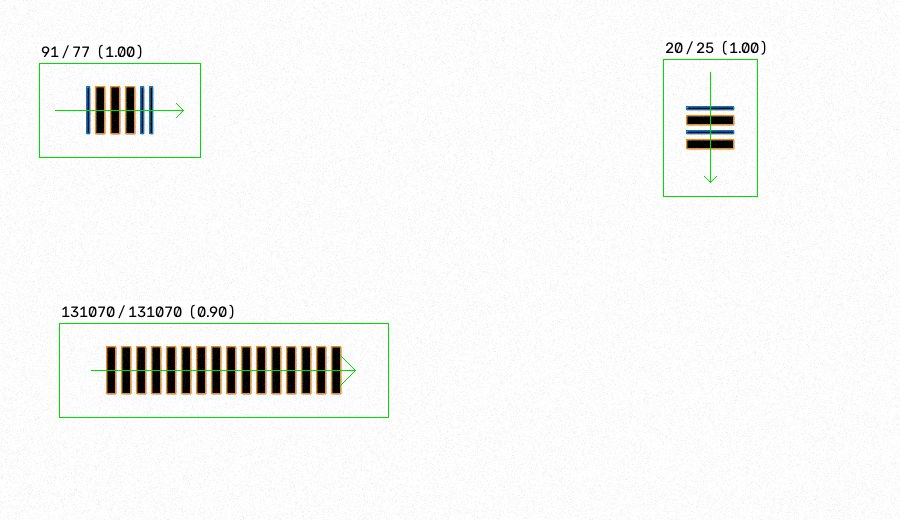
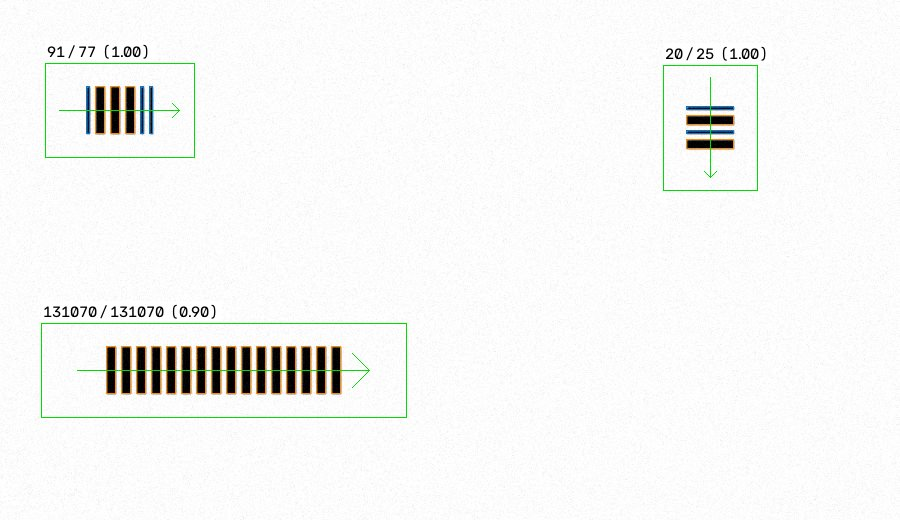
fix: harden output handling, candidate window and packaging
Release review: sdist now includes only the public tree; unknown output suffixes and unwritable JSON paths return exit code 3; the candidate window is derived from bar widths so two codes at the 12 mm minimum separation stay separate; --min-bars is validated; warning strings are documented.

diff --git a/src/pharmacode/detection.py b/src/pharmacode/detection.py
@@ -136,10 +136,26 @@ def candidate_from_chain(
         for i in range(len(ordered) - 1)
     ]
     length = float(np.median([bar.length for bar in chain]))
-    extend_axis = max(config.max_spacing_length_ratio * length, 4.0 * max(spacings))
+    # The window must be wide enough to hold whatever validate_quiet_zone will demand once
+    # segmentation runs: 4x the wide bar width when one is known (quiet_zone_nominal_wide_ratio),
+    # estimated as either the thickest bar in the chain, or 3x the thinnest for an all-narrow
+    # code where no bar reaches the true wide width yet. It also has to clear the largest gap
+    # already seen between bars with room to spare (4.5x: benchmarked against 200 synthetic
+    # negatives, where a run with an oversized end gap needs the window to reach slightly past
+    # it so the neighbouring, disqualifying ink stays inside the candidate instead of being
+    # cropped away). But it must stay below the ~12 mm minimum separation Laetus leaves between
+    # two codes, or the window swallows a neighbouring code's bars as a false quiet zone; with a
+    # known DPI it is capped at 11 mm to leave that code's own 1 mm margin. Without DPI it falls
+    # back to the same formula in millimetre-free bar-width terms.
+    thicknesses = [bar.thickness for bar in chain]
+    extend_axis = max(
+        config.quiet_zone_nominal_wide_ratio * max(thicknesses),
+        config.quiet_zone_nominal_wide_ratio * 3.0 * min(thicknesses),
+        4.5 * (max(spacings) if spacings else max(thicknesses)),
+    )
     physical = config.mm_to_px(config.quiet_zone_nominal_mm + 1.0)
     if physical is not None:
-        extend_axis = max(extend_axis, physical)
+        extend_axis = min(max(extend_axis, physical), config.mm_to_px(11.0))
     extend_across = 0.5 * length
     corners = np.concatenate(
         [

diff --git a/tests/vision/test_multiple_codes.py b/tests/vision/test_multiple_codes.py
@@ -2,7 +2,7 @@ from __future__ import annotations
 
 from pharmacode.models import DecoderConfig
 from pharmacode.pipeline import decode_image
-from pharmacode.rendering import Distortion, compose_scene, distort, render_value
+from pharmacode.rendering import Distortion, RenderSpec, compose_scene, distort, render_value
 
 
 def test_three_codes_with_mixed_orientation() -> None:
@@ -24,3 +24,23 @@ def test_two_codes_on_one_axis() -> None:
     result = decode_image(scene, DecoderConfig(dpi=300.0))
     assert result.ok and sorted(d.value for d in result.detections) == [1234, 4321]
     assert result.detections[0].bbox.x < result.detections[1].bbox.x
+
+
+def test_tall_bars_two_codes_at_minimum_separation() -> None:
+    spec = RenderSpec(height_mm=20.0)
+    a, b = render_value(1234, spec), render_value(4321, spec)
+    # render_bars puts the code's own 6 mm quiet zone directly against the bars and an extra
+    # 2 mm margin outside that (border = quiet_zone_mm + margin_mm). Dropping only the margin
+    # leaves each crop with its own 6 mm quiet zone; placed edge to edge with no extra gap, the
+    # two 6 mm zones combine into exactly the 12 mm minimum separation.
+    margin = spec.px(spec.margin_mm)
+    inner_a = a[:, margin:-margin]
+    inner_b = b[:, margin:-margin]
+    scene = compose_scene(
+        (a.shape[0], inner_a.shape[1] + inner_b.shape[1] + 2 * margin),
+        [(inner_a, margin, 0), (inner_b, margin + inner_a.shape[1], 0)],
+    )
+    for config in (DecoderConfig(dpi=300.0), DecoderConfig()):
+        result = decode_image(scene, config)
+        assert result.ok, [e.to_dict() for e in result.errors]
+        assert sorted(d.value for d in result.detections) == [1234, 4321]

diff --git a/tests/unit/test_cli.py b/tests/unit/test_cli.py
@@ -56,6 +56,11 @@ def test_generate_reports_unwritable_output(tmp_path: Path) -> None:
     assert main(["generate", "--value", "5", "--output", str(target)]) == EXIT_INPUT
 
 
+def test_generate_unknown_suffix_is_input_error(tmp_path: Path) -> None:
+    target = tmp_path / "gen.txt"
+    assert main(["generate", "--value", "25", "--output", str(target)]) == EXIT_INPUT
+
+
 def test_generate_with_distortions_is_seeded(tmp_path: Path) -> None:
     args = ["generate", "--value", "91", "--rotation", "90", "--noise", "12", "--seed", "7"]
     assert main([*args, "--output", str(tmp_path / "a.png")]) == EXIT_OK
@@ -93,6 +98,13 @@ def test_decode_command_prints_json_to_stdout(tmp_path: Path, capsys) -> None:
     assert json.loads(capsys.readouterr().out)["detections"][0]["mirror_value"] == 20
 
 
+def test_decode_json_into_missing_directory_is_input_error(tmp_path: Path) -> None:
+    source = tmp_path / "code.png"
+    save_image(source, render_value(1234))
+    json_out = tmp_path / "missing" / "r.json"
+    assert main(["decode", str(source), "--json", str(json_out)]) == EXIT_INPUT
+
+
 def test_decode_command_exit_codes(tmp_path: Path, capsys) -> None:
     blank = tmp_path / "blank.png"
     save_image(blank, np.full((200, 300), 255, np.uint8))
@@ -103,6 +115,7 @@ def test_decode_command_exit_codes(tmp_path: Path, capsys) -> None:
     assert main(["decode", str(tmp_path / "missing.png")]) == EXIT_INPUT
     assert main(["decode", str(blank), "--dpi", "-1"]) == EXIT_USAGE
     assert main(["decode", str(blank), "--min-bars", "9", "--max-bars", "4"]) == EXIT_USAGE
+    assert main(["decode", str(blank), "--min-bars", "1"]) == EXIT_USAGE
     capsys.readouterr()
 
 

diff --git a/src/pharmacode/cli.py b/src/pharmacode/cli.py
@@ -128,8 +128,8 @@ def exit_code_for(result: DecodeResult) -> int:
 def run_decode(args: argparse.Namespace) -> int:
     if args.dpi is not None and args.dpi <= 0:
         return _fail("--dpi must be positive", EXIT_USAGE)
-    if not 1 <= args.min_bars <= args.max_bars <= 16:
-        return _fail("--min-bars and --max-bars must satisfy 1 <= min <= max <= 16", EXIT_USAGE)
+    if not 2 <= args.min_bars <= args.max_bars <= 16:
+        return _fail("--min-bars and --max-bars must satisfy 2 <= min <= max <= 16", EXIT_USAGE)
     try:
         image = load_image(args.input)
     except InputError as exc:
@@ -138,7 +138,10 @@ def run_decode(args: argparse.Namespace) -> int:
     result = decode_image(image, config, path=str(args.input))
     payload = json.dumps(result.to_dict(), indent=2)
     if args.json:
-        Path(args.json).write_text(payload + "\n", encoding="utf-8")
+        try:
+            Path(args.json).write_text(payload + "\n", encoding="utf-8")
+        except OSError as exc:
+            return _fail(f"could not write JSON to {args.json}: {exc}", EXIT_INPUT)
     else:
         print(payload)
     if args.annotated:

diff --git a/src/pharmacode/benchmark.py b/src/pharmacode/benchmark.py
@@ -81,8 +81,18 @@ def build_conditions(quick: bool) -> list[Condition]:
         Condition("dpi-150-blur-1", "blur", 150.0, Distortion(blur_sigma=1.0)),
     ]
     if quick:
+        # One condition per group (the first that appears), so a slice can't silently drop
+        # a whole group from CI coverage; rotation-180 is added on top for a second angle.
         keep = {"clean", "rotation", "blur", "noise", "multi", "scale", "tolerance"}
-        conditions = [c for c in conditions if c.group in keep][:8]
+        selected: list[Condition] = []
+        seen: set[str] = set()
+        for c in conditions:
+            if c.group in keep and c.group not in seen:
+                selected.append(c)
+                seen.add(c.group)
+            if c.group == "rotation" and c.name == "rotation-180":
+                selected.append(c)
+        conditions = selected
     return conditions
 
 

diff --git a/src/pharmacode/io.py b/src/pharmacode/io.py
@@ -28,9 +28,12 @@ def save_image(path: str | Path, image: np.ndarray) -> None:
     """Write an image; the format follows the file suffix (PNG when absent)."""
     file = Path(path)
     suffix = file.suffix.lower() or ".png"
-    ok, buffer = cv2.imencode(suffix, image)
-    if not ok:
-        raise InputError(f"could not encode image as {suffix}")
     if not file.parent.is_dir():
         raise InputError(f"output directory does not exist: {file.parent}")
+    try:
+        ok, buffer = cv2.imencode(suffix, image)
+    except cv2.error as exc:
+        raise InputError(f"could not encode image as {suffix}: {exc}") from exc
+    if not ok:
+        raise InputError(f"could not encode image as {suffix}")
     buffer.tofile(str(file))

diff --git a/src/pharmacode/models.py b/src/pharmacode/models.py
@@ -238,6 +238,13 @@ class DecoderConfig:
     )  # one printed gap width; 1.5x tolerates blur and low DPI rounding
     single_class_no_dpi_confidence_cap: float = 0.5
 
+    def __post_init__(self) -> None:
+        if not 2 <= self.min_bars <= self.max_bars <= 16:
+            raise ValueError(
+                f"min_bars and max_bars must satisfy 2 <= min_bars <= max_bars <= 16, "
+                f"got min_bars={self.min_bars}, max_bars={self.max_bars}"
+            )
+
     def with_updates(self, **changes: Any) -> DecoderConfig:
         return replace(self, **changes)
 

diff --git a/tests/unit/test_models.py b/tests/unit/test_models.py
@@ -2,6 +2,8 @@ from __future__ import annotations
 
 import json
 
+import pytest
+
 from pharmacode.models import (
     BarKind,
     BoundingBox,
@@ -78,3 +80,8 @@ def test_config_defaults_derive_from_laetus_ratios() -> None:
     assert config.max_spacing_factor == 3.0
     tuned = config.with_updates(dpi=300.0, min_bars=4)
     assert tuned.dpi == 300.0 and tuned.min_bars == 4 and config.dpi is None
+
+
+def test_config_rejects_min_bars_below_two() -> None:
+    with pytest.raises(ValueError, match="min_bars"):
+        DecoderConfig(min_bars=1)

diff --git a/src/pharmacode/pipeline.py b/src/pharmacode/pipeline.py
@@ -26,6 +26,9 @@ def decode_image(
     config = DecoderConfig() if config is None else config
     gray = cv2.cvtColor(image, cv2.COLOR_BGR2GRAY) if image.ndim == 3 else image
     info = ImageInfo(path, int(gray.shape[1]), int(gray.shape[0]), config.dpi)
+    if gray.size == 0:
+        error = DecodeError(ErrorCode.NO_CANDIDATES, "image is empty")
+        return DecodeResult(info, (), (error,))
     min_kernel_px = 0
     if config.dpi is not None:
         min_kernel_px = int(round(config.mm_to_px(config.background_kernel_min_mm)))

diff --git a/tests/unit/test_io.py b/tests/unit/test_io.py
@@ -30,3 +30,8 @@ def test_load_non_image(tmp_path: Path) -> None:
     junk.write_bytes(b"not an image")
     with pytest.raises(InputError):
         load_image(junk)
+
+
+def test_save_rejects_unknown_suffix(tmp_path: Path) -> None:
+    with pytest.raises(InputError):
+        save_image(tmp_path / "x.txt", render_value(3))

diff --git a/docs/cli.md b/docs/cli.md
@@ -40,10 +40,10 @@ Find and decode every Pharmacode in an image.
 | `--dpi FLOAT` | none | resolution in DPI; enables the physical checks (see [algorithm.md](algorithm.md)) |
 | `--json PATH` | none | write the JSON result here instead of stdout |
 | `--annotated PATH` | none | also write an annotated copy of the image here |
-| `--min-bars INT` | 2 | reject candidates with fewer bars than this |
-| `--max-bars INT` | 16 | reject candidates with more bars than this |
+| `--min-bars INT` | 2 | reject candidates with fewer bars than this (2..16) |
+| `--max-bars INT` | 16 | reject candidates with more bars than this (2..16) |
 
-`--min-bars` and `--max-bars` must satisfy `1 <= min-bars <= max-bars <= 16`.
+`--min-bars` and `--max-bars` must satisfy `2 <= min-bars <= max-bars <= 16`.
 
 ## `pharmacode benchmark`
 
@@ -74,7 +74,7 @@ Prints the resulting Markdown report to stdout as well as writing it.
   },
   "detections": [
     {
-      "bbox": { "x": 0, "y": 23, "width": 208, "height": 94 },
+      "bbox": { "x": 5, "y": 23, "width": 197, "height": 94 },
       "orientation_deg": 0.0,
       "bars": ["narrow", "narrow", "wide", "wide", "narrow", "wide", "narrow", "narrow", "wide", "wide"],
       "bar_widths_px": [3, 3, 9, 9, 3, 9, 3, 3, 9, 9],
@@ -94,13 +94,22 @@ for `NO_CANDIDATES`, which has no candidate to attach to); see
 what each `code` means and when it appears instead of, or alongside, a
 detection.
 
+A detection's `warnings` list holds zero or more of these strings:
+
+| warning | appears when |
+|---|---|
+| `single_width_class` | every bar in the code measured the same width, so there is no wide/narrow ratio to split on; the single class is assigned by comparing it to a physical or gap-derived boundary instead (`classify_widths` in `segmentation.py`) |
+| `single_width_class_no_dpi` | `single_width_class` above, and additionally no `--dpi` was given, so the boundary is the code's own median gap rather than a physical measurement in mm; confidence is capped at `single_class_no_dpi_confidence_cap` (0.5) |
+| `width_ratio_below_nominal` | two width classes were found and are each internally tight, but the wide/narrow ratio between their means is below 2.0 (nominal is 3.0), i.e. the split is real but narrower than the Laetus nominal ratio |
+| `quiet_zone_below_nominal` | the smaller of the leading/trailing quiet zone is at or above the hard minimum (so decoding still succeeds) but below the nominal quiet zone (6 mm with `--dpi`, else 4x the estimated wide bar width) |
+
 ## Exit codes
 
 | code | name | meaning |
 |---|---|---|
 | 0 | `EXIT_OK` | every candidate in the image decoded successfully (at least one detection, no errors) |
 | 2 | `EXIT_USAGE` | a command-line argument was invalid (bad `--value`, non-positive `--dpi`, or `--min-bars`/`--max-bars` out of order) — nothing was decoded and no JSON is produced |
-| 3 | `EXIT_INPUT` | an image file could not be read (`decode`'s input) or written (`generate --output`, or `decode --annotated`); when the input cannot be read, no JSON is produced; when `decode --annotated` fails to write, the JSON has already been written or printed; `generate` has no JSON result to produce either way |
+| 3 | `EXIT_INPUT` | an image file could not be read (`decode`'s input) or written (`generate --output`, or `decode --annotated`), the output path has an unrecognised suffix (`save_image` only knows the formats OpenCV can encode; an unknown suffix such as `.txt` fails the same way as a missing output directory), or `decode --json` could not be written to its path (e.g. the parent directory is missing); when the input cannot be read, no JSON is produced; when `decode --annotated` fails to write, the JSON has already been written or printed; when `decode --json` fails to write, no JSON reaches either destination (stdout is only used when `--json` is absent); `generate` has no JSON result to produce either way |
 | 4 | `EXIT_NO_CANDIDATES` | decoding ran but found no group of aligned bars at all (`NO_CANDIDATES`) |
 | 5 | `EXIT_VALIDATION_FAILED` | one or more candidates were found but every one of them failed segmentation or validation |
 | 6 | `EXIT_PARTIAL` | a mix: at least one candidate decoded successfully and at least one other failed |

diff --git a/CHANGELOG.md b/CHANGELOG.md
@@ -1,0 +1,16 @@
+# Changelog
+
+## 0.1.0 - 2026-09-18
+
+First release.
+
+- Encoding and decoding of one-track Pharmacode values 3..131070 with both reading directions.
+- Synthetic renderer with Laetus standard and miniature dimensions, DPI, rotation, blur, noise,
+  JPEG, contrast, illumination, perspective, scaling, multi-code scenes and negative samples.
+- Detector and decoder for PNG, JPEG and TIFF: 0/90/180/270 degrees and small tilts,
+  quiet-zone and geometry validation, stable error codes, confidence.
+- `pharmacode generate`, `pharmacode decode` (JSON, annotated image, exit codes) and
+  `pharmacode benchmark` (condition matrix with failure artefacts); `python -m pharmacode ...`
+  is equivalent to the `pharmacode` console script.
+- Documentation: algorithm and threshold provenance, CLI, benchmark, limitations, provenance.
+- CI on Linux and Windows with a wheel install smoke test.
